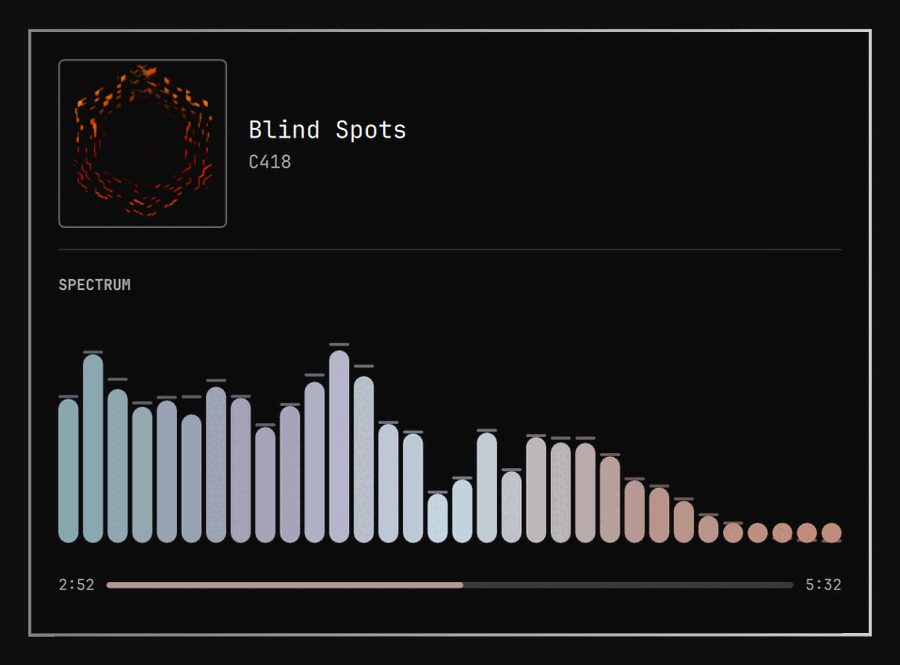
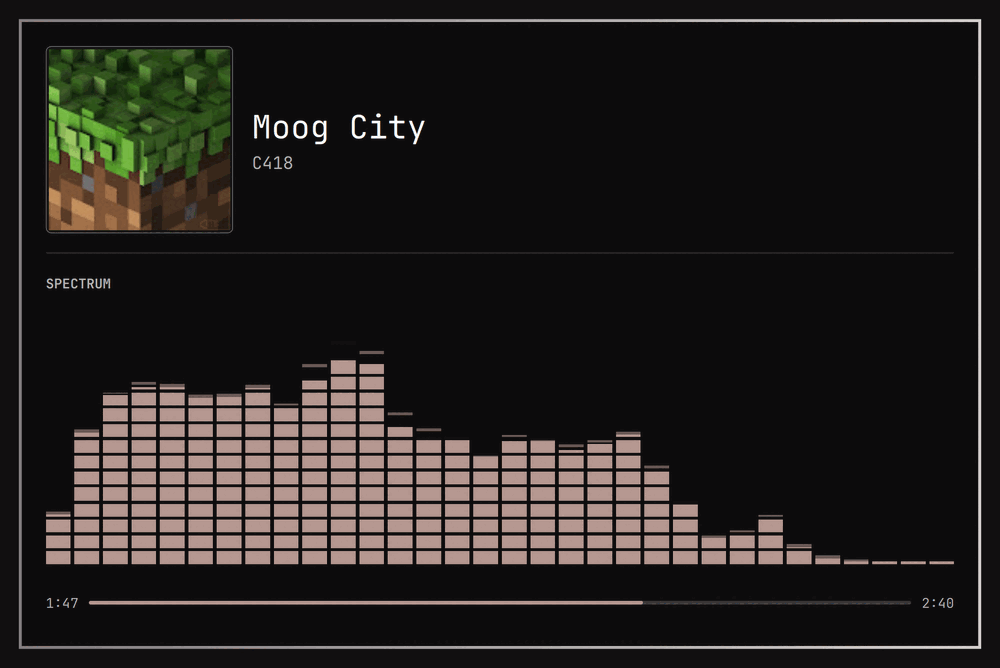
feat: the system preset at screensaver size, as an LED ladder
A panel is sized for a corner of the screen; this has all of it. The card now
takes 68% of the width and everything inside is multiplied by how much bigger
it is than the panel it is modelled on, so the shell's proportions survive.

The bars are cut into segments the way PanelSlider cuts notches into its track
-- lines in the card's own background colour over the top, sixteen for the
whole spectrum rather than sixteen per column -- and their corners follow
Style.cornerRadius rather than being pills, so they are as square as the rest
of the desktop is.

Claude-Session: https://claude.ai/code/session_01TmRFXiFSN28GHxfLn1cFEq

Changed region(s): [[0.0, 0.0301, 0.9956, 0.9925]]

diff --git a/Service.qml b/Service.qml
@@ -859,13 +859,19 @@ Scope {
         id: card
         visible: root.style === "system"
         anchors.centerIn: parent
-        width: Style.space(720)
+        // A panel is sized for a corner of the screen; a screensaver has the
+        // whole of it. Everything inside is multiplied by how much bigger this
+        // card is than the panel it is modelled on, so the proportions the
+        // shell's own popups have survive the enlargement.
+        readonly property real k: width / Style.space(720)
+
+        width: Math.round(Math.min(parent.width * 0.68, Style.space(1280)))
         height: cardColumn.implicitHeight + contentTopInset + contentBottomInset
         radius: Style.cornerRadius
         color: Util.alpha(Color.background, 0.97)
         borderSpec: Border.surfaceSpec("popups", "border", Color.popups.border,
-                                       Math.max(1, Style.space(2)))
-        padding: Style.spacing.panelPadding
+                                       Math.max(1, Math.round(Style.space(2) * k)))
+        padding: Math.round(Style.spacing.panelPadding * k)
 
         Column {
           id: cardColumn
@@ -875,7 +881,7 @@ Scope {
           anchors.topMargin: card.contentTopInset
           anchors.leftMargin: card.contentLeftInset
           anchors.rightMargin: card.contentRightInset
-          spacing: Style.spacing.panelGap
+          spacing: Math.round(Style.spacing.panelGap * card.k)
 
           // Hero: the cover as an image in a bordered square, the way the media
           // bar widget already draws it, and the labels beside it.
@@ -885,15 +891,15 @@ Scope {
 
             BorderSurface {
               id: cover
-              width: Style.space(140)
+              width: Math.round(Style.space(140) * card.k)
               height: width
-              radius: Style.spacing.labelGap
+              radius: Math.round(Style.spacing.labelGap * card.k)
               color: Style.normalFillFor(Color.foreground, Color.accent)
               borderSpec: Border.controlSpec("normal", Color.foreground, Color.accent)
 
               Image {
                 anchors.fill: parent
-                anchors.margins: Style.space(2)
+                anchors.margins: Math.max(1, Math.round(Style.space(2) * card.k))
                 fillMode: Image.PreserveAspectCrop
                 asynchronous: true
                 cache: false
@@ -907,17 +913,17 @@ Scope {
                 text: "\u{f075a}"
                 color: Color.foreground
                 font.family: Style.font.family
-                font.pixelSize: Style.font.displayLarge
+                font.pixelSize: Math.round(Style.font.displayLarge * card.k)
               }
             }
 
             Column {
               id: heroLabels
               anchors.left: cover.right
-              anchors.leftMargin: Style.space(14)
+              anchors.leftMargin: Math.round(Style.space(14) * card.k)
               anchors.right: parent.right
               anchors.verticalCenter: cover.verticalCenter
-              spacing: Style.space(2)
+              spacing: Math.round(Style.space(2) * card.k)
 
               Text {
                 width: parent.width
@@ -926,7 +932,7 @@ Scope {
                 elide: Text.ElideRight
                 color: Color.foreground
                 font.family: Style.font.family
-                font.pixelSize: Style.font.display
+                font.pixelSize: Math.round(Style.font.display * card.k)
               }
 
               Text {
@@ -936,14 +942,14 @@ Scope {
                 elide: Text.ElideRight
                 color: Qt.darker(Color.foreground, 1.4)
                 font.family: Style.font.family
-                font.pixelSize: Style.font.subtitle
+                font.pixelSize: Math.round(Style.font.subtitle * card.k)
               }
             }
           }
 
           Rectangle {
             width: parent.width
-            height: Math.max(1, Style.space(1))
+            height: Math.max(1, Math.round(Style.space(1) * card.k))
             color: Util.alpha(Color.foreground, 0.12)
           }
 
@@ -951,9 +957,9 @@ Scope {
             text: "SPECTRUM"
             color: Qt.darker(Color.foreground, 1.4)
             font.family: Style.font.family
-            font.pixelSize: Style.font.caption
+            font.pixelSize: Math.round(Style.font.caption * card.k)
             font.bold: true
-            topPadding: Math.ceil(Style.font.caption * 0.15)
+            topPadding: Math.ceil(Style.font.caption * card.k * 0.15)
           }
 
           // Bars as rectangles rather than glyphs. The model is the bar count,
@@ -962,11 +968,29 @@ Scope {
           Item {
             id: bars
             width: parent.width
-            height: Style.space(190)
+            height: Math.round(Style.space(190) * card.k)
 
-            readonly property real gap: Style.space(3)
+            readonly property real gap: Math.round(Style.space(3) * card.k)
+            readonly property int segments: 16
             readonly property real barWidth:
               Math.max(1, (width - gap * (root.barCount - 1)) / root.barCount)
+
+            // Cut the bars into segments the way PanelSlider cuts notches into
+            // its track: lines in the card's own background colour, drawn over
+            // the top. Sixteen rectangles for the whole spectrum rather than
+            // sixteen per column, and the meter reads as an LED ladder.
+            Repeater {
+              model: bars.segments
+
+              Rectangle {
+                required property int index
+                z: 2
+                width: bars.width
+                height: Math.max(1, Math.round(Style.space(2) * card.k))
+                color: card.color
+                y: Math.round((index + 1) * bars.height / bars.segments) - height / 2
+              }
+            }
 
             Repeater {
               model: root.barCount
@@ -982,13 +1006,26 @@ Scope {
                 readonly property color tone:
                   root.spectrumColour(index / Math.max(1, root.barCount - 1))
 
+                // The empty slot the bar rises in, at the same alpha a
+                // PanelSlider gives the unfilled part of its track. It keeps
+                // the quiet end of the spectrum from disappearing into the
+                // card, which is what a mixer's channel strips do.
+                Rectangle {
+                  anchors.fill: parent
+                  radius: Math.min(Style.cornerRadius, width / 2)
+                  color: Util.alpha(Color.foreground, 0.0)
+                }
+
                 // The bar itself, growing from the baseline.
                 Rectangle {
                   anchors.bottom: parent.bottom
                   width: parent.width
-                  radius: width / 2
+                  // The shell's rounding, not a pill: Style.cornerRadius
+                  // mirrors Hyprland's decoration:rounding, so the bars are as
+                  // square or as round as every other corner on the desktop.
+                  radius: Math.min(Style.cornerRadius, width / 2)
                   color: parent.tone
-                  height: Math.max(Style.space(3), parent.level * bars.height)
+                  height: Math.max(Style.space(3) * card.k, parent.level * bars.height)
                   Behavior on height {
                     NumberAnimation { duration: 90; easing.type: Easing.OutCubic }
                   }
@@ -998,8 +1035,8 @@ Scope {
                 // plain bar chart does not.
                 Rectangle {
                   width: parent.width
-                  height: Math.max(1, Style.space(2))
-                  radius: height / 2
+                  height: Math.max(1, Math.round(Style.space(2) * card.k))
+                  radius: Math.min(Style.cornerRadius, height / 2)
                   color: parent.tone
                   opacity: 0.55
                   y: Math.max(0, bars.height - parent.peak * bars.height - height)
@@ -1014,7 +1051,7 @@ Scope {
           // Position, drawn the way PanelSlider draws a track.
           Item {
             width: parent.width
-            height: Style.spacing.controlHeight
+            height: Math.round(Style.spacing.controlHeight * card.k)
             opacity: root.trackLength > 0 ? 1 : 0
             Behavior on opacity { NumberAnimation { duration: 200 } }
 
@@ -1025,7 +1062,7 @@ Scope {
               text: root.clock(root.trackPosition)
               color: Qt.darker(Color.foreground, 1.4)
               font.family: Style.font.family
-              font.pixelSize: Style.font.caption
+              font.pixelSize: Math.round(Style.font.caption * card.k)
             }
 
             Text {
@@ -1035,7 +1072,7 @@ Scope {
               text: root.clock(root.trackLength)
               color: Qt.darker(Color.foreground, 1.4)
               font.family: Style.font.family
-              font.pixelSize: Style.font.caption
+              font.pixelSize: Math.round(Style.font.caption * card.k)
             }
 
             Rectangle {
@@ -1043,9 +1080,9 @@ Scope {
               anchors.verticalCenter: parent.verticalCenter
               anchors.left: elapsed.right
               anchors.right: total.left
-              anchors.leftMargin: Style.spacing.controlGap
-              anchors.rightMargin: Style.spacing.controlGap
-              height: Math.max(4, Math.round(Style.spacing.controlHeight * 0.11))
+              anchors.leftMargin: Math.round(Style.spacing.controlGap * card.k)
+              anchors.rightMargin: Math.round(Style.spacing.controlGap * card.k)
+              height: Math.max(4, Math.round(Style.spacing.controlHeight * 0.11 * card.k))
               radius: height / 2
               color: Util.alpha(Color.foreground, 0.2)
 

diff --git a/README.md b/README.md
@@ -222,11 +222,25 @@ that are actually lit. A newspaper halftone, in a terminal.
 language — the way the audio, network and bluetooth panels are drawn — and puts
 the same card on screen at screensaver size: a `BorderSurface` over the
 background at 0.97 with the `popups` border spec, a hero row of the cover as a
-real image beside the labels, a separator, a section header, bars as rounded
-rectangles, and a position track built the way `PanelSlider` builds one. Every
-dimension goes through `Style.space()` and every colour through the `Color`
-tokens, so it follows the theme's rounding, spacing and font scale the way the
-rest of the desktop does.
+real image beside the labels, a separator, a section header, the spectrum, and a
+position track built the way `PanelSlider` builds one.
+
+The bars are cut into an LED ladder by the same trick `PanelSlider` uses for its
+notches — lines in the card's own background colour drawn over the top, sixteen
+for the whole spectrum rather than sixteen per column. Their corners are
+`Style.cornerRadius`, which mirrors Hyprland's `decoration:rounding`, so they are
+as square or as round as every other corner on the desktop.
+
+A panel is sized for a corner of the screen and a screensaver has all of it, so
+the card takes 68% of the width and everything inside is multiplied by how much
+bigger it is than the panel it is modelled on — the proportions survive the
+enlargement. Every dimension goes through `Style.space()` and every colour
+through the `Color` tokens, so it follows the theme's spacing and font scale
+too.
+
+Pair it with `colors: accent` for the flat theme accent — `Color.accent`, the
+same colour the shell fills its sliders and selections with — instead of a
+gradient.
 
 <p align="center">
   <img src="docs/system.png" width="70%" alt="the system preset: an Omarchy panel card at screensaver size">
